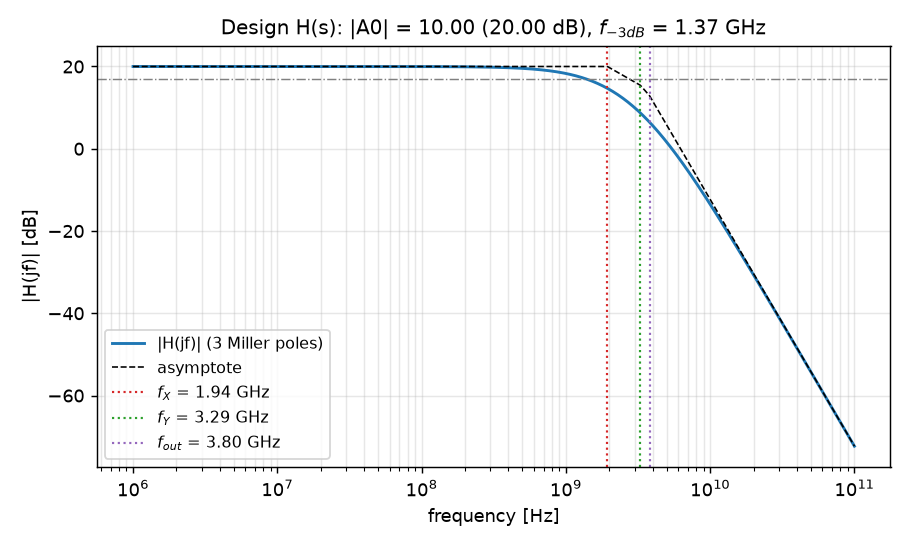
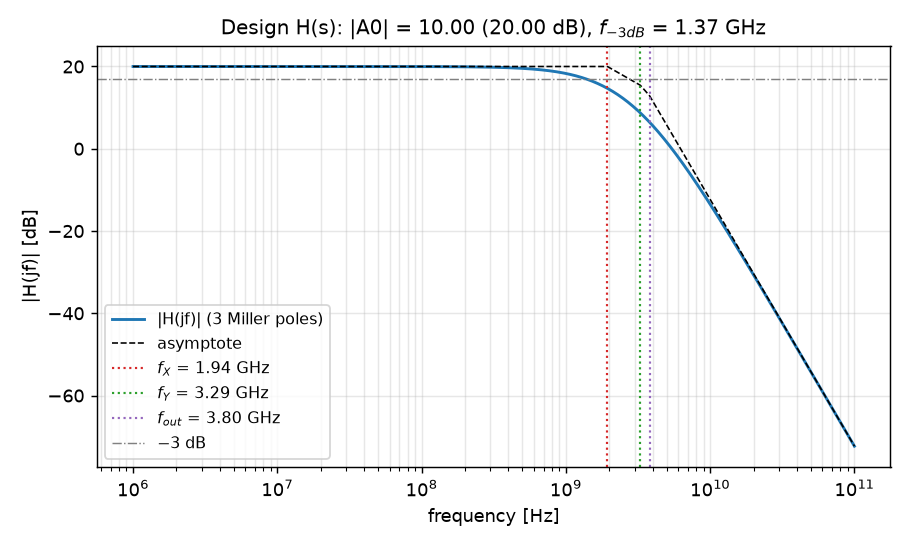
docs(설계과제2): fix pole-shift attribution and tighten report per verification
One-at-a-time substitution in the 3-node solve shows f_Y rises mainly from
smaller C_GS1 and Y-node caps, not from the larger C_GD1 (which mostly
lowers f_X); post.sensitivity_rows writes that table to compare.md and the
report now cites it. Also: decoupled (C_GD1 = 0) poles justify the X/Y
labels, g_m1·R_L rounds to 10.29, units in substituted formulas, H(s)
with the RHP zero, M3 current sign and V(x) label notes, body effect
assumption, C_DB3 instead of C_SB3, |A0| and -3 dB legend in figures.

Changed region(s): [[0.1231, 0.5293, 0.3692, 0.8407]]

diff --git a/설계과제/과제2/sim/post.py b/설계과제/과제2/sim/post.py
@@ -1,4 +1,5 @@
 """설계과제2 후처리: design.json + ngspice 결과(op/ac/meas/pz) + polemap.json → Bode 그림, 포화 표, 설계-SPICE 비교표."""
+import copy
 import json
 import math
 from pathlib import Path
@@ -76,6 +77,34 @@ def spice_nodal(dev, RL):
     return handcalc.nodal(spice_nodal_input(dev, RL))
 
 
+Y_NODE_CAPS = (("M1", "CDB"), ("M2", "CGS"), ("M2", "CSB"), ("M3", "CDB"), ("M3", "CGD"))
+
+
+def sensitivity_rows(d, dev):
+    """표 C 3노드 정확해에서 한 가지씩 SPICE 값으로 바꿔 푼 극점 [(이름, {X, Y, out} Hz)]."""
+    base = {"RL": d["RL"], "gm": d["gm"], "ro": d["ro"], "caps": d["caps"]}
+    sp = spice_nodal_input(dev, d["RL"])
+
+    def variant(**change):
+        v = copy.deepcopy(base)
+        for (m, c), val in change.get("caps", {}).items():
+            v["caps"][m][c] = val
+        if change.get("gm_ro"):
+            v["gm"], v["ro"] = sp["gm"], sp["ro"]
+        return v
+
+    cases = [
+        ("기준 (표 C 정확해)", base),
+        ("C_GD1 = 0 (X-Y 결합 제거)", variant(caps={("M1", "CGD"): 0.0})),
+        ("C_GD1만 SPICE 값", variant(caps={("M1", "CGD"): sp["caps"]["M1"]["CGD"]})),
+        ("C_GS1만 SPICE 값", variant(caps={("M1", "CGS"): sp["caps"]["M1"]["CGS"]})),
+        ("Y 노드 C만 SPICE 값", variant(caps={mc: sp["caps"][mc[0]][mc[1]] for mc in Y_NODE_CAPS})),
+        ("gm, gds만 SPICE 값", variant(gm_ro=True)),
+        ("모두 SPICE 값", sp),
+    ]
+    return [(name, label_nodal(v)) for name, v in cases]
+
+
 def node_caps(f, R):
     """C = 1/(2π f R) [fF]."""
     return {k: 1 / (2 * math.pi * f[k] * R[k]) * 1e15 for k in f}
@@ -140,7 +169,7 @@ def main():
     ax.semilogx(f, asym, ls="--", c="k", lw=.9, label="asymptote")
     for k, c in zip(NODES, ("tab:red", "tab:green", "tab:purple")):
         ax.axvline(d["f"][k], ls=":", c=c, lw=1.2, label=f"$f_{{{k}}}$ = {d['f'][k]/1e9:.2f} GHz")
-    ax.axhline(hd[0] - 3, ls="-.", c="gray", lw=.8)
+    ax.axhline(hd[0] - 3, ls="-.", c="gray", lw=.8, label="−3 dB")
     ax.set_title(f"Design H(s): |A0| = {abs(d['A0']):.2f} ({hd[0]:.2f} dB), "
                  f"$f_{{-3dB}}$ = {f3_design/1e9:.2f} GHz", fontsize=11)
     ax.set_xlabel("frequency [Hz]")
@@ -156,7 +185,7 @@ def main():
     fig, ax = plt.subplots(2, 1, sharex=True, figsize=(7, 5.5))
     ax[0].semilogx(f_ac, db_ac, lw=1.6)
     ax[0].set_ylabel("|Vout/Vin| [dB]")
-    ax[0].set_title(f"SPICE AC: A0 = {10**(meas['a0']/20):.2f} ({meas['a0']:.2f} dB), "
+    ax[0].set_title(f"SPICE AC: |A0| = {10**(meas['a0']/20):.2f} ({meas['a0']:.2f} dB), "
                     f"$f_{{-3dB}}$ = {meas['f3db']/1e9:.2f} GHz", fontsize=11)
     ax[1].semilogx(f_ac, ph_ac, lw=1.6)
     ax[1].set_ylabel("phase [deg]")
@@ -224,11 +253,15 @@ def main():
                        for k in NODES])
     z = sorted(zeros, key=abs)
     zero_line = ", ".join(f"{zz.real/2/math.pi/1e9:+.1f} GHz" for zz in z)
+    sens_md = _table(["경우", "$f_X$ [GHz]", "$f_Y$ [GHz]", "$f_{out}$ [GHz]"],
+                     [[n, f"{r['X']/1e9:.3f}", f"{r['Y']/1e9:.3f}", f"{r['out']/1e9:.3f}"]
+                      for n, r in sensitivity_rows(d, dev)])
     (REPORT / "compare.md").write_text(
         "## 이득\n\n" + gain_md +
         "\n## 극점\n\n" + pole_md +
         f"\nSPICE 영점: {zero_line} (양수 = RHP). 설계 RHP 영점 gm1/(2π CGD1) = "
         f"{d['gm']['M1']/(2*math.pi*d['caps']['M1']['CGD']*1e-15)/1e9:.1f} GHz.\n"
+        "\n## 3노드 정확해: 한 가지씩 SPICE 값으로 바꿨을 때\n\n" + sens_md +
         "\n## 1 fF 섭동 상대 이동 |Δp|/|p|\n\n" + shift_md +
         f"\n## 노드 등가 C\n\nA_XY (SPICE) = {axy_sp:.3f}, A_XY (설계) = {d['AXY']:.3f}\n\n" + cap_md)
 

diff --git a/tests/test_ec2_design2.py b/tests/test_ec2_design2.py
@@ -173,6 +173,11 @@ class PolemapTests(unittest.TestCase):
         self.assertGreaterEqual(min(v["f_hz"] for v in pm.values()), 1e9)
 
 
+def spice_io_devices():
+    import spice_io
+    return spice_io.parse_devices((SIM / "op.txt").read_text().split("=== DEVICES ===")[1])
+
+
 class PostTests(unittest.TestCase):
     def setUp(self):
         import post
@@ -226,6 +231,20 @@ class PostTests(unittest.TestCase):
         lab = self.p.label_nodal(handcalc.design(vov2=0.2))
         self.assertAlmostEqual(lab["Y"] / 5.711e9, 1, delta=0.005)
         self.assertAlmostEqual(lab["out"] / 7.551e9, 1, delta=0.005)
+
+    def test_sensitivity_rows_one_at_a_time(self):
+        # 표 C 정확해에서 한 가지씩 SPICE 값으로 바꿔 어떤 차이가 극점을 움직였는지 본다
+        d = json.loads((SIM / "design.json").read_text())
+        dev = spice_io_devices()
+        rows = dict(self.p.sensitivity_rows(d, dev))
+        ref = {"기준 (표 C 정확해)": (1.590, 5.959), "C_GD1 = 0 (X-Y 결합 제거)": (2.944, 4.946),
+               "C_GD1만 SPICE 값": (1.412, 6.143), "C_GS1만 SPICE 값": (1.704, 6.450),
+               "Y 노드 C만 SPICE 값": (1.628, 6.483), "gm, gds만 SPICE 값": (1.601, 6.119),
+               "모두 SPICE 값": (1.552, 7.431)}
+        self.assertEqual(list(rows), list(ref))
+        for k, (fx, fy) in ref.items():
+            self.assertAlmostEqual(rows[k]["X"] / 1e9, fx, delta=0.002)
+            self.assertAlmostEqual(rows[k]["Y"] / 1e9, fy, delta=0.002)
 
     def test_device_node_caps_matches_design_with_table_caps(self):
         d = json.loads((SIM / "design.json").read_text())

diff --git a/설계과제/과제2/report/compare.md b/설계과제/과제2/report/compare.md
@@ -19,6 +19,18 @@
 
 SPICE 영점: +35.4 GHz (양수 = RHP). 설계 RHP 영점 gm1/(2π CGD1) = 45.5 GHz.
 
+## 3노드 정확해: 한 가지씩 SPICE 값으로 바꿨을 때
+
+| 경우 | $f_X$ [GHz] | $f_Y$ [GHz] | $f_{out}$ [GHz] |
+|---|---|---|---|
+| 기준 (표 C 정확해) | 1.590 | 5.959 | 3.786 |
+| C_GD1 = 0 (X-Y 결합 제거) | 2.944 | 4.946 | 3.343 |
+| C_GD1만 SPICE 값 | 1.412 | 6.143 | 3.803 |
+| C_GS1만 SPICE 값 | 1.704 | 6.450 | 3.851 |
+| Y 노드 C만 SPICE 값 | 1.628 | 6.483 | 3.801 |
+| gm, gds만 SPICE 값 | 1.601 | 6.119 | 3.791 |
+| 모두 SPICE 값 | 1.552 | 7.431 | 3.793 |
+
 ## 1 fF 섭동 상대 이동 |Δp|/|p|
 
 | +1 fF 노드 | pole 1 (1.55 GHz) | pole 2 (3.79 GHz) | pole 3 (7.43 GHz) | 대응 |
